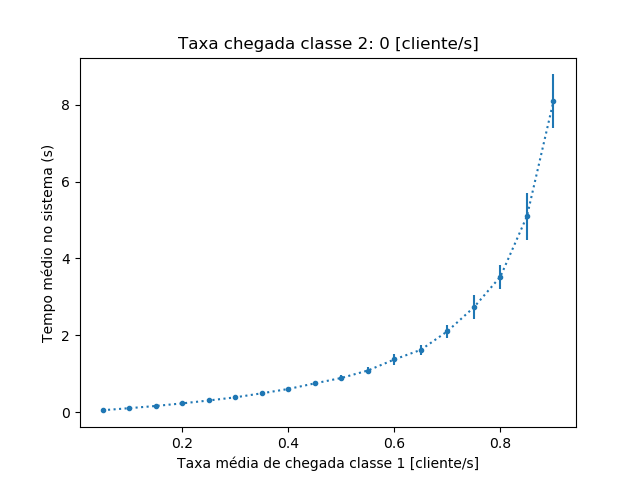
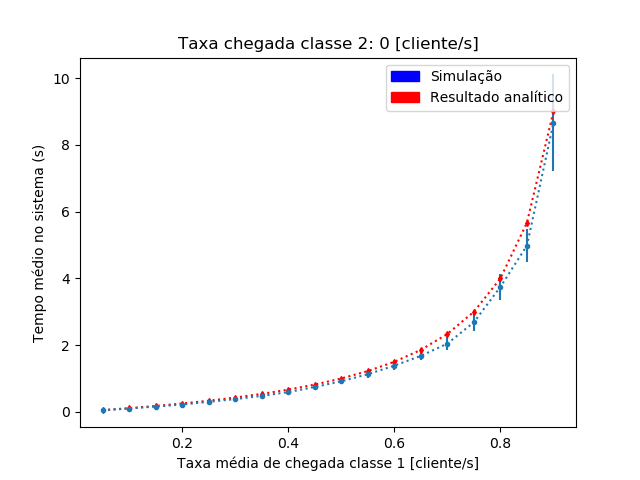
Plotando linha com resultado analítico

diff --git a/auxiliar/functions.py b/auxiliar/functions.py
@@ -1,5 +1,6 @@
 import numpy, random
 import matplotlib.pyplot as plt
+import matplotlib.patches as mpatches
 from entities.interval import Interval
 from enums.client_type import ClientType
 from enums.distribution_type import DistributionType
@@ -61,15 +62,22 @@ def plot(chosen_scenario, results, lambda2):
     plt.xlabel('Taxa média de chegada classe 1 [cliente/s]')
     plt.ylabel('Tempo médio no sistema (s)')
     plt.title('Taxa chegada classe 2: '+ str(lambda2) + str(' [cliente/s]'))
+    markersize = 3
+    blue_label = mpatches.Patch(color='blue', label='Simulação')
+    red_label = mpatches.Patch(color='red', label='Resultado analítico')
     try:
-        x, y, errors = zip(*results)
+        x, y, errors, analytical_result = zip(*results)
         error_lists = [list(e) for e in zip(*errors)]
         (yerror_bellow, yerror_above) = __interval_in_confidence_points(y, error_lists)
-        plt.errorbar(x, y, yerr=[yerror_bellow, yerror_above], fmt=':o', markersize=3)
+        plt.errorbar(x, y, yerr=[yerror_bellow, yerror_above], fmt=':o',
+                     label='Simulacao', markersize=markersize)
+        plt.plot(x, analytical_result, ':rd', markersize=markersize)
+        plt.legend(handles=[blue_label, red_label])
+        plt.plot()
         # plt.show()
         plt.savefig('charts/cenario' + str(chosen_scenario) + '_lambda_'  + str(round(lambda2, 2)) + '.png')
     except Exception as e:
-        print('Dados insuficientes:\t' + str(e))
+        print('Erro na geracao do grafico:\t' + str(e))
     plt.close('all')
 
 def __interval_in_confidence_points(y_values, error_lists):

diff --git a/auxiliar/run_queue.py b/auxiliar/run_queue.py
@@ -130,10 +130,10 @@ def run_queue_parallel(lambd1, lambd2, mi1, mi2, simulation_total_rounds,
     print("Lambda clientes 2: " + str(lambd2))
     print("Mi 2: " + str(mi2))
     print("# pessoas Servidas: " + str(served_persons))
-    print("# médio de pessoas: " + str(mean_persons_on_system))
     print("# médio de pessoas (analítico): " + str(analytic_mean_persons_on_system))
+    print("# médio de pessoas: " + str(mean_persons_on_system))
     print("Intervalo de confiança: " + str(confidence_interval_end_points))
     print("Utilização (analítico): " + str(analytic_utilisation))
     print("Pessoas no desvio padrão do sistema: " + str(persons_on_system_standard_deviation) + "\n")
 
-    return (mean_persons_on_system, confidence_interval_end_points)
+    return (mean_persons_on_system, confidence_interval_end_points, analytic_mean_persons_on_system)

diff --git a/main.py b/main.py
@@ -19,10 +19,10 @@ total_time = 10000
 def simulate(chosen_scenario, mu1, mu2, lambdas1, lambda2, priority, preempcao, distribution_type):
     results = []
     for lambda1 in lambdas1:
-        mean_persons_on_system, confidence_interval = \
+        mean_persons_on_system, confidence_interval, analytic_mean_persons_on_system = \
             run_queue.run_queue_parallel(lambda1, lambda2, mu1, mu2, n_rodadas,
                                          total_time, priority, preempcao, distribution_type, random_generator)
-        results.append((lambda1, mean_persons_on_system, confidence_interval))
+        results.append((lambda1, mean_persons_on_system, confidence_interval, analytic_mean_persons_on_system))
     aux.plot(chosen_scenario, results, lambda2)
 
 def init():
